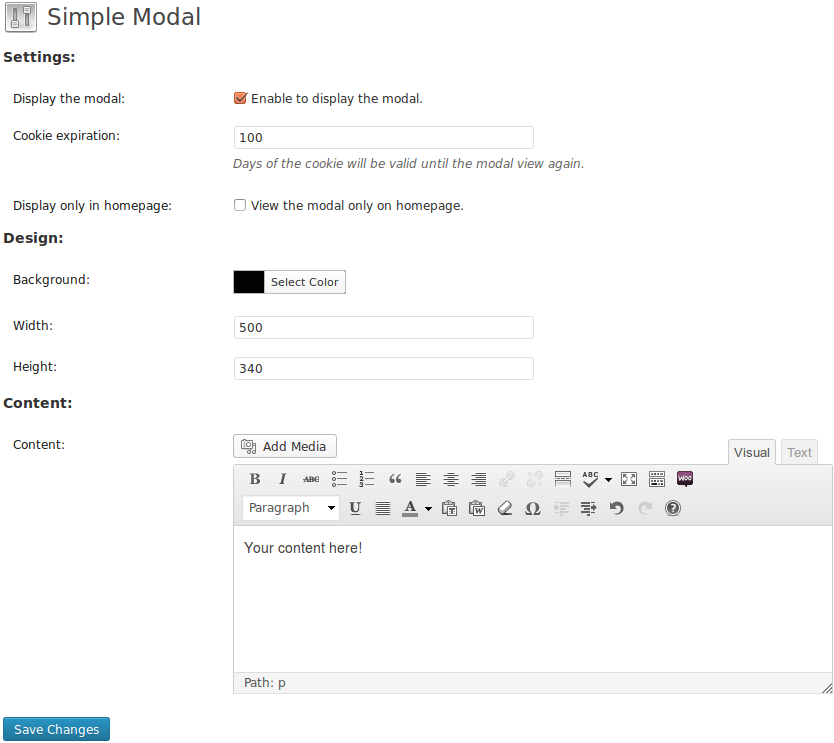
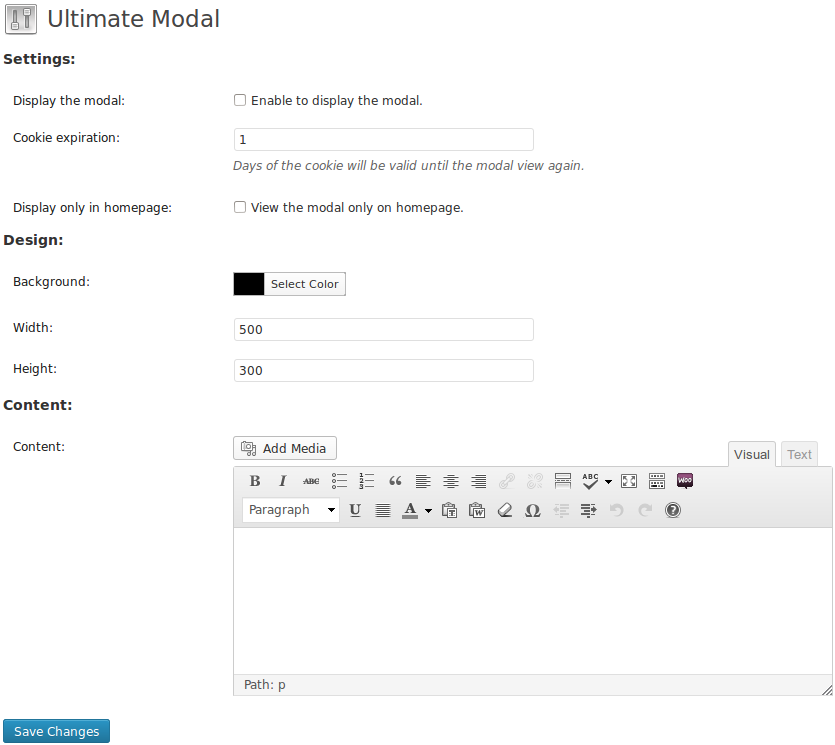
fixed the plugin name in admin.js and screenshot-1.png

diff --git a/assets/js/admin.js b/assets/js/admin.js
@@ -1,4 +1,4 @@
 jQuery(document).ready(function($) {
     // Color Picker.
-    $(".simplemodal-color-field").wpColorPicker();
+    $(".ultimatemodal-color-field").wpColorPicker();
 });
